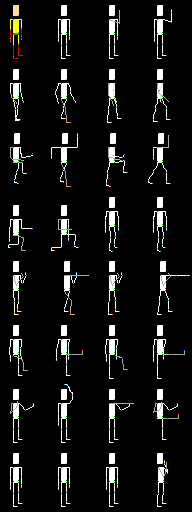
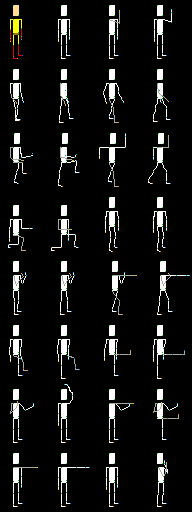
reorder so R/L become even/odd frames for animation
one punch judo chop

diff --git a/src/opm.c b/src/opm.c
@@ -43,71 +43,71 @@ static inline int opm_run_charge(int p, float dt)
 }
     
 static const uint8_t opm_next_frames[ANIM_COUNT] = {
-    [ANIM_IDLE_0]=ANIM_IDLE_1,
-    [ANIM_IDLE_1]=ANIM_IDLE_0,
-    [ANIM_GUARD_R]=ANIM_IDLE_0,
-    [ANIM_GUARD_L]=ANIM_IDLE_1,
+    [ANIM_IDLE_R]=ANIM_IDLE_L,
+    [ANIM_IDLE_L]=ANIM_IDLE_R,
+    [ANIM_GUARD_R]=ANIM_IDLE_R,
+    [ANIM_GUARD_L]=ANIM_IDLE_L,
     [ANIM_WALK_R_0]=ANIM_WALK_R_1,
-    [ANIM_WALK_R_1]=ANIM_WALK_L_0,
     [ANIM_WALK_L_0]=ANIM_WALK_L_1,
+    [ANIM_WALK_R_1]=ANIM_WALK_L_0,
     [ANIM_WALK_L_1]=ANIM_WALK_R_0,
     [ANIM_RUN_R_0]=ANIM_WALK_R_1,
-    [ANIM_RUN_R_1]=ANIM_WALK_L_0,
     [ANIM_RUN_L_0]=ANIM_WALK_L_1,
+    [ANIM_RUN_R_1]=ANIM_WALK_L_0,
     [ANIM_RUN_L_1]=ANIM_WALK_R_0,
-    [ANIM_CROUCH_R]=ANIM_IDLE_0,
-    [ANIM_CROUCH_L]=ANIM_IDLE_1,
-    [ANIM_FLY_0]=ANIM_FLY_1,
-    [ANIM_FLY_1]=ANIM_FLY_0,
+    [ANIM_CROUCH_R]=ANIM_IDLE_R,
+    [ANIM_CROUCH_L]=ANIM_IDLE_L,
+    [ANIM_FLY_R]=ANIM_FLY_L,
+    [ANIM_FLY_L]=ANIM_FLY_R,
     [ANIM_PUNCH_R_0]=ANIM_PUNCH_R_1,
-    [ANIM_PUNCH_R_1]=ANIM_WALK_R_0,
     [ANIM_PUNCH_L_0]=ANIM_PUNCH_L_1,
+    [ANIM_PUNCH_R_1]=ANIM_WALK_R_0,
     [ANIM_PUNCH_L_1]=ANIM_WALK_L_0,
     [ANIM_KICK_R_0]=ANIM_KICK_R_1,
-    [ANIM_KICK_R_1]=ANIM_IDLE_0,
     [ANIM_KICK_L_0]=ANIM_KICK_L_1,
-    [ANIM_KICK_L_1]=ANIM_IDLE_1,
-    [ANIM_GRAB]=ANIM_IDLE_1,
-    [ANIM_GRAB_THROW]=ANIM_IDLE_1,
+    [ANIM_KICK_R_1]=ANIM_IDLE_R,
+    [ANIM_KICK_L_1]=ANIM_IDLE_L,
+    [ANIM_GRAB]=ANIM_IDLE_L,
+    [ANIM_GRAB_THROW]=ANIM_IDLE_L,
     [ANIM_GRAB_PUNCH]=ANIM_GRAB,
     [ANIM_GRAB_KICK]=ANIM_GRAB,
-    [ANIM_USER_0]=ANIM_IDLE_1,
-    [ANIM_USER_1]=ANIM_IDLE_0,
-    [ANIM_HURT]=ANIM_IDLE_0,
+    [ANIM_USER_R]=ANIM_IDLE_R,
+    [ANIM_USER_L]=ANIM_IDLE_L,
+    [ANIM_HURT]=ANIM_IDLE_R,
     [ANIM_BAD_HURT]=ANIM_HURT,
 };
 
 static const float opm_frame_rates[ANIM_COUNT] = {
-    [ANIM_IDLE_0]=0.125,
-    [ANIM_IDLE_1]=0.125,
+    [ANIM_IDLE_R]=0.125,
+    [ANIM_IDLE_L]=0.125,
     [ANIM_GUARD_R]=0.5,
     [ANIM_GUARD_L]=0.5,
     [ANIM_WALK_R_0]=0.2,
-    [ANIM_WALK_R_1]=0.2,
     [ANIM_WALK_L_0]=0.2,
+    [ANIM_WALK_R_1]=0.2,
     [ANIM_WALK_L_1]=0.2,
     [ANIM_RUN_R_0]=0.4,
-    [ANIM_RUN_R_1]=0.4,
     [ANIM_RUN_L_0]=0.4,
+    [ANIM_RUN_R_1]=0.4,
     [ANIM_RUN_L_1]=0.4,
     [ANIM_CROUCH_R]=0.1,
     [ANIM_CROUCH_L]=0.1,
-    [ANIM_FLY_0]=0.2,
-    [ANIM_FLY_1]=0.2,
+    [ANIM_FLY_R]=0.2,
+    [ANIM_FLY_L]=0.2,
     [ANIM_PUNCH_R_0]=100.0,
-    [ANIM_PUNCH_R_1]=0.1,
     [ANIM_PUNCH_L_0]=100.0,
+    [ANIM_PUNCH_R_1]=0.1,
     [ANIM_PUNCH_L_1]=0.1,
     [ANIM_KICK_R_0]=100.0,
-    [ANIM_KICK_R_1]=100.0,
     [ANIM_KICK_L_0]=100.0,
+    [ANIM_KICK_R_1]=100.0,
     [ANIM_KICK_L_1]=100.0,
     [ANIM_GRAB]=10.0,
     [ANIM_GRAB_THROW]=10.0,
     [ANIM_GRAB_PUNCH]=10.0,
     [ANIM_GRAB_KICK]=10.0,
-    [ANIM_USER_0]=0.1,
-    [ANIM_USER_1]=0.1,
+    [ANIM_USER_R]=0.1,
+    [ANIM_USER_L]=0.1,
     [ANIM_HURT]=0.5,
     [ANIM_BAD_HURT]=0.5,
 };
@@ -124,7 +124,7 @@ void opm_ground(int p, float dt)
     int next_flipped = to_flipped;
 
     static float frame_rate = 0.25;
-    if (to_frame/4 != ANIM_PUNCH_R_0/4 || to_frame % 2 == 0)
+    if (to_frame/4 != ANIM_PUNCH_R_0/4 || (to_frame/2) % 2 == 0)
         frame_rate = opm_frame_rates[to_frame];
     //if (from_frame == ANIM_PUNCH_R_1 || from_frame == ANIM_PUNCH_L_1)
     //    message("to frame %d/from punching frame %d; at rate %f\n", to_frame, from_frame, frame_rate);
@@ -156,9 +156,9 @@ void opm_ground(int p, float dt)
         players[p].vy *= 2.0;
         players[p].vz = -players[p].jump_charge;
         players[p].jump_charge = 0;
-        animation_interrupt(p, ANIM_FLY_0 | next_flipped);
-        frame_rate = opm_frame_rates[ANIM_FLY_0];
-        next_frame = ANIM_FLY_1;
+        animation_interrupt(p, ANIM_FLY_R | next_flipped);
+        frame_rate = opm_frame_rates[ANIM_FLY_R];
+        next_frame = ANIM_FLY_L;
         // the above line does nothing if we return...
         return;
     }
@@ -169,11 +169,19 @@ void opm_ground(int p, float dt)
     if (GAMEPAD_PRESSED(p, B))
     {
         players[p].jump_charge = 0;
-        if (players[p].punch_charge == 0)
+        if (from_frame/2 == ANIM_USER_R/2)
+            goto after_movement;
+        else if (from_frame/2 == ANIM_GUARD_R/2)
+        {
+            next_frame = ANIM_USER_R + from_frame%2;
+            animation_interrupt(p, next_frame | next_flipped);
+            frame_rate = 5.0;
+        }
+        else if (players[p].punch_charge == 0)
         {
             if (dt != 1 && from_frame/4 == ANIM_PUNCH_R_0/4)
             {
-                to_frame = ANIM_PUNCH_R_1 + 2 - ((from_frame%4)/2)*2;
+                to_frame = ANIM_PUNCH_R_1 + 1 - (from_frame&1);
                 animation_interrupt(p, to_frame | next_flipped);
                 animation_tween(p, dt, 5.0/dt, (to_frame & (~1)) | next_flipped);
                 message("consecutive normal punches to frame %d at rate %f\n", to_frame, 5.0/dt);
@@ -207,7 +215,7 @@ void opm_ground(int p, float dt)
             else
             {
                 players[p].punch_charge += 0.5 + dt;
-                animation_interrupt(p, (ANIM_PUNCH_R_0 + 2 - ((from_frame%4)/2)*2) | next_flipped);
+                animation_interrupt(p, (ANIM_PUNCH_R_0 + 1 - (from_frame&1)) | next_flipped);
             }
             return;
         }
@@ -226,7 +234,7 @@ void opm_ground(int p, float dt)
     {
         punch_now:
         ALLOW_TURN(p);
-        next_frame = ((next_frame%4)/2)*2;
+        next_frame = next_frame&1;
         animation_interrupt(p, (ANIM_PUNCH_R_1 + next_frame) | next_flipped);
         frame_rate = 256*players[p].punch_charge;
         if (players[p].punch_charge > 16)
@@ -265,7 +273,7 @@ void opm_ground(int p, float dt)
         if (players[p].kick_charge == 0)
         {
             players[p].kick_charge += 0.5 + dt;
-            animation_interrupt(p, (ANIM_KICK_R_0 + 2 - ((from_frame%4)/2)*2) | next_flipped);
+            animation_interrupt(p, (ANIM_KICK_R_0 + 1 - (from_frame&1)) | next_flipped);
             return;
         }
         else
@@ -282,11 +290,17 @@ void opm_ground(int p, float dt)
     else if (players[p].kick_charge)
     {
         kick_now:
-        next_frame = ((next_frame%4)/2)*2;
+        next_frame = next_frame&1;
         animation_interrupt(p, (ANIM_KICK_R_1 + next_frame)|next_flipped);
         frame_rate = 8*players[p].kick_charge;
         players[p].kick_charge = 0;
         next_frame = ANIM_KICK_R_0 + next_frame;
+    }
+    else if (GAMEPAD_PRESSED(p, X))
+    {
+        frame_rate = 0.5;
+        next_frame = ANIM_GUARD_R + (to_frame%2);
+        ALLOW_TURN(p);
     }
     else if (GAMEPAD_PRESSED(p, right))
     {
@@ -336,7 +350,7 @@ void opm_ground(int p, float dt)
                 frame_rate *= 10.0/2.0;
         }
         else
-            next_frame = ANIM_WALK_R_0 + (next_frame+2)%4;
+            next_frame = ANIM_WALK_R_0 + next_frame%4;
     }
     else if (!(gamepad_buttons[p] & (gamepad_up | gamepad_down)))
     {
@@ -421,7 +435,7 @@ void opm_air(int p, float dt)
     int to_flipped = to_frame & ANIM_FACE_LEFT;
     to_frame &= ~ANIM_FACE_LEFT;
     int next_flipped = to_flipped;
-    int next_frame = ANIM_FLY_0 | (1-(to_frame&1));
+    int next_frame = ANIM_FLY_R | (1-(to_frame&1));
     
     static float frame_rate = 0.1;
     if (to_frame/4 != ANIM_PUNCH_R_0/4 || to_frame % 2 == 0)
@@ -432,7 +446,7 @@ void opm_air(int p, float dt)
         if (players[p].punch_charge == 0)
         {
             players[p].punch_charge += 0.5 + dt;
-            animation_interrupt(p, (ANIM_PUNCH_R_0 + 2 - ((from_frame%4)/2)*2) | next_flipped);
+            animation_interrupt(p, (ANIM_PUNCH_R_0 + 1 - (from_frame&1)) | next_flipped);
             return;
         }
         players[p].punch_charge += 0.5 + dt;
@@ -447,7 +461,7 @@ void opm_air(int p, float dt)
     {
         air_punch_now:
         ALLOW_TURN(p);
-        next_frame = ((next_frame%4)/2)*2;
+        next_frame = next_frame&1;
         animation_interrupt(p, (ANIM_PUNCH_R_1 + next_frame) | next_flipped);
         frame_rate = 256*players[p].punch_charge;
         players[p].punch_charge = 0;
@@ -458,7 +472,7 @@ void opm_air(int p, float dt)
         if (players[p].kick_charge == 0)
         {
             players[p].kick_charge += 0.5 + dt;
-            animation_interrupt(p, (ANIM_KICK_R_0 + 2 - ((from_frame%4)/2)*2) | next_flipped);
+            animation_interrupt(p, (ANIM_KICK_R_0 + 1 - (from_frame&1)) | next_flipped);
             return;
         }
         players[p].kick_charge += 0.5 + dt;
@@ -473,11 +487,17 @@ void opm_air(int p, float dt)
     {
         air_kick_now:
         ALLOW_TURN(p);
-        next_frame = ((next_frame%4)/2)*2;
+        next_frame = next_frame&1;
         animation_interrupt(p, (ANIM_KICK_R_1 + next_frame)|next_flipped);
         frame_rate = 8*players[p].kick_charge;
         players[p].kick_charge = 0;
         next_frame = ANIM_KICK_R_0 + next_frame;
+    }
+    else if (GAMEPAD_PRESSED(p, X))
+    {
+        frame_rate = 0.5;
+        next_frame = ANIM_GUARD_R + (to_frame%2);
+        ALLOW_TURN(p);
     }
     else ALLOW_TURN(p);
 

diff --git a/src/mk_animation.py b/src/mk_animation.py
@@ -11,36 +11,36 @@ core_deltas = {
 }
 
 animation = [
-    "idle_0",
-    "idle_1",
+    "idle_R",
+    "idle_L",
     "guard_R",
     "guard_L",
     "walk_R_0",
-    "walk_R_1",
     "walk_L_0",
+    "walk_R_1",
     "walk_L_1",
     "run_R_0",
-    "run_R_1",
     "run_L_0",
+    "run_R_1",
     "run_L_1",
     "crouch_R", # pre and post jump (jump crouch and landing) 
     "crouch_L",
-    "fly_0",
-    "fly_1",
+    "fly_R",
+    "fly_L",
     "punch_R_0",
-    "punch_R_1",
     "punch_L_0",
+    "punch_R_1",
     "punch_L_1",
     "kick_R_0",
-    "kick_R_1",
     "kick_L_0",
+    "kick_R_1",
     "kick_L_1",
     "grab",
     "grab_throw",
     "grab_punch",
     "grab_kick",
-    "user_0",
-    "user_1",
+    "user_R",
+    "user_L",
     "hurt",
     "bad_hurt"
 ]
